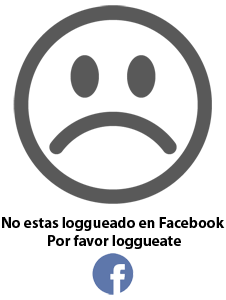
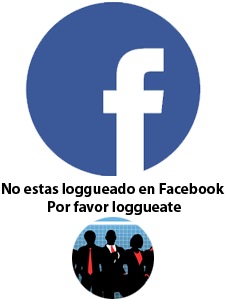
Splash de facebook

diff --git a/src/main/webapp/assets/js/app.js b/src/main/webapp/assets/js/app.js
@@ -4,6 +4,9 @@ var app = angular.module('app', ['ngRoute', 'ngResource', 'ngMap']);
 app.run(['$rootScope', '$window', '$location', 'fbAuth',
     function($rootScope, $window, $location, fbAuth) {
 
+        $rootScope.cargandoHttp=true;
+        $rootScope.splashes = splashes;
+
         $window.fbAsyncInit = function() {
             FB.init({
                 appId: '793357694115348',
@@ -110,9 +113,15 @@ app.config(function($routeProvider, $locationProvider, $httpProvider) {
             redirectTo: '/error'
         });
 
-    $httpProvider.interceptors.push(function() {
+    $httpProvider.interceptors.push('myHttpInterceptor');
+});
+
+app.factory('myHttpInterceptor', ['$q', '$rootScope',
+    function ($q, $rootScope) {
+        $rootScope.cargandoHttp=true;
+        $rootScope.http = null;
         return {
-            request: function (config) {
+            'request': function (config) {
                 var xAT = config.headers["x-access-token"];
                 //alert(xAT);
                 //console.log(xAT);
@@ -120,12 +129,13 @@ app.config(function($routeProvider, $locationProvider, $httpProvider) {
                     //alert("Levantando header de localStorage....");
                     console.log("Levantando header de localStorage....");
                     config.headers["x-access-token"] = window.localStorage['accessToken'];
+                    $rootScope.cargandoHttp=false;
                 }
                 return config;
             }
-        };
-    });
-});
+        }
+    }
+]);
 
 app.factory("Partido", ['$resource', function($resource) {
 

diff --git a/src/main/webapp/index.html b/src/main/webapp/index.html
@@ -25,7 +25,7 @@
                 <a class="navbar-brand" href="/">Partidos Manager</a>
             </div>
             <div id="navbar" class="navbar-collapse collapse">
-                <ul ng-show="tengoHeader()" class="nav navbar-nav">
+                <ul ng-show="tengoHeader() && !mostrarMensajeNoLoggeo()" class="nav navbar-nav">
                     <li><a href="/">Inicio</a></li>
                     <li class="dropdown">
 					    <a class="dropdown-toggle" data-toggle="dropdown" href="#">Partidos<b class="caret"></b></a>
@@ -46,15 +46,13 @@
             </div>
         </div>
     </nav>
-    <div class="container" id="main" ng-show="tengoHeader()">
+
+    <div class="container" id="main" ng-show="tengoHeader() && !mostrarMensajeNoLoggeo()">
         <div ng-view>
         </div>
     </div>
 
-    <div ng-show="!tengoHeader()" style="width: 100%; margin-top: 60px; text-align: center">
-        <img src="assets/img/introPM.png">
-    </div>
-
+    <div ng-show="mostrarMensajeNoLoggeo()" ng-include="splashes[0].url"></div>
 
     <!--Libs-->
     <script src="assets/libs/jquery-1.11.3.min.js"></script>

diff --git a/src/main/webapp/assets/js/controllers/mainController.js b/src/main/webapp/assets/js/controllers/mainController.js
@@ -1,5 +1,9 @@
 app.controller('mainController', function($scope, $rootScope, $http) {
     $scope.tengoHeader = function() {
-      return $http.defaults.headers.common['x-access-token'];
+        return $http.defaults.headers.common['x-access-token'];
+    };
+
+    $scope.mostrarMensajeNoLoggeo = function() {
+      return $rootScope.loggedUser != undefined && !$rootScope.loggedUser;
     };
 });

diff --git a/src/main/webapp/assets/js/utils.js b/src/main/webapp/assets/js/utils.js
@@ -2,3 +2,7 @@ var authTemplates = [
     { name: 'login', url: 'views/templates/login.html'},
     { name: 'loggedInUser', url: 'views/templates/loggedInUser.html'}
 ];
+
+var splashes = [
+    { name: 'splashFacebook', url: 'views/templates/splashNotLogged.html'}
+];

diff --git a/src/main/webapp/views/templates/splashNotLogged.html b/src/main/webapp/views/templates/splashNotLogged.html
@@ -1,0 +1,4 @@
+<div
+     style="width: 100%; margin-top: 60px; text-align: center;">
+        <img src="assets/img/introPM.png">
+</div>
